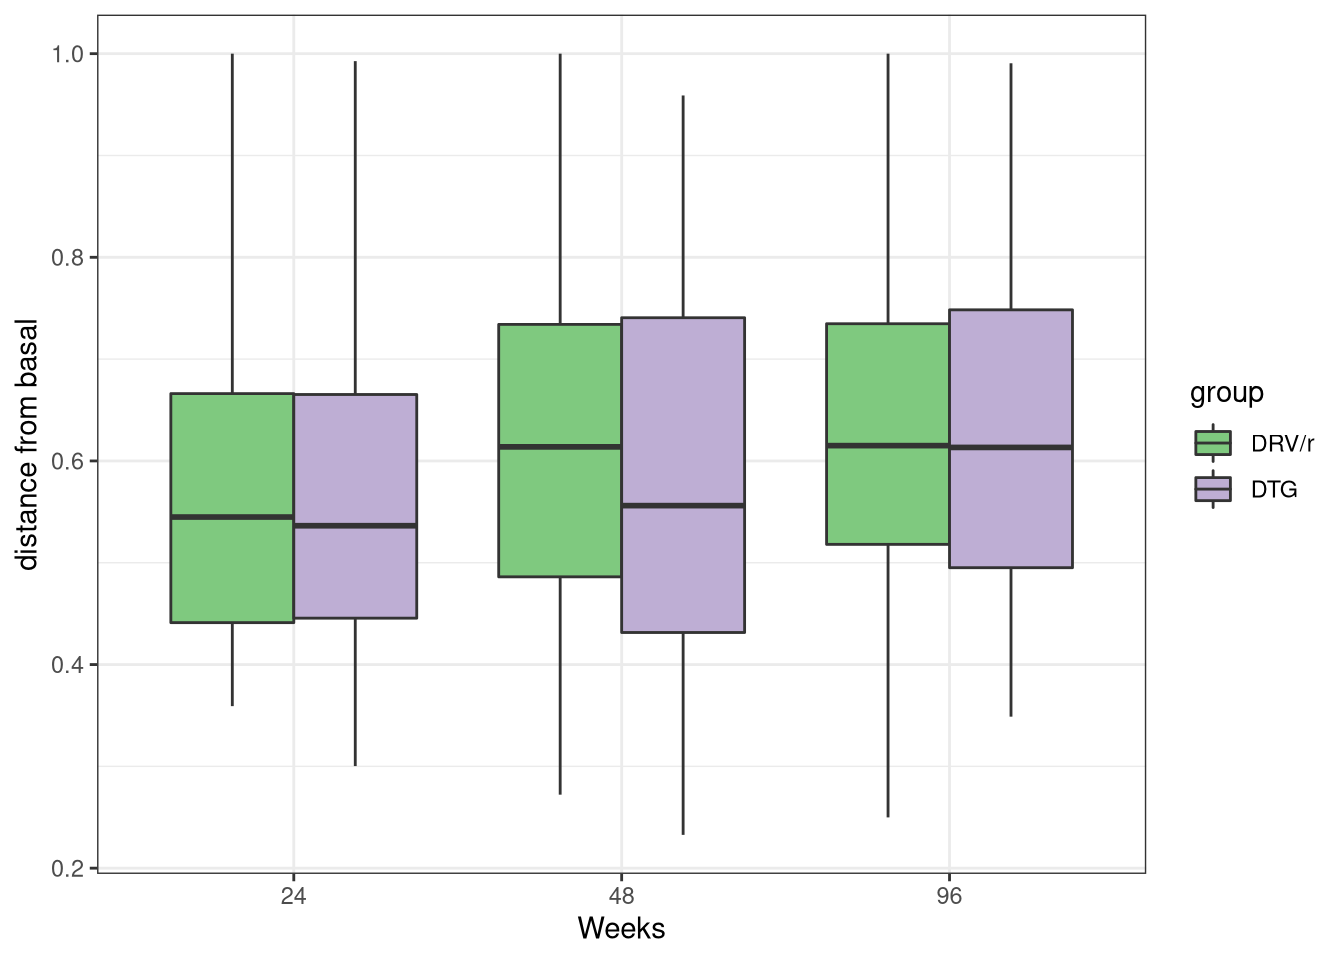
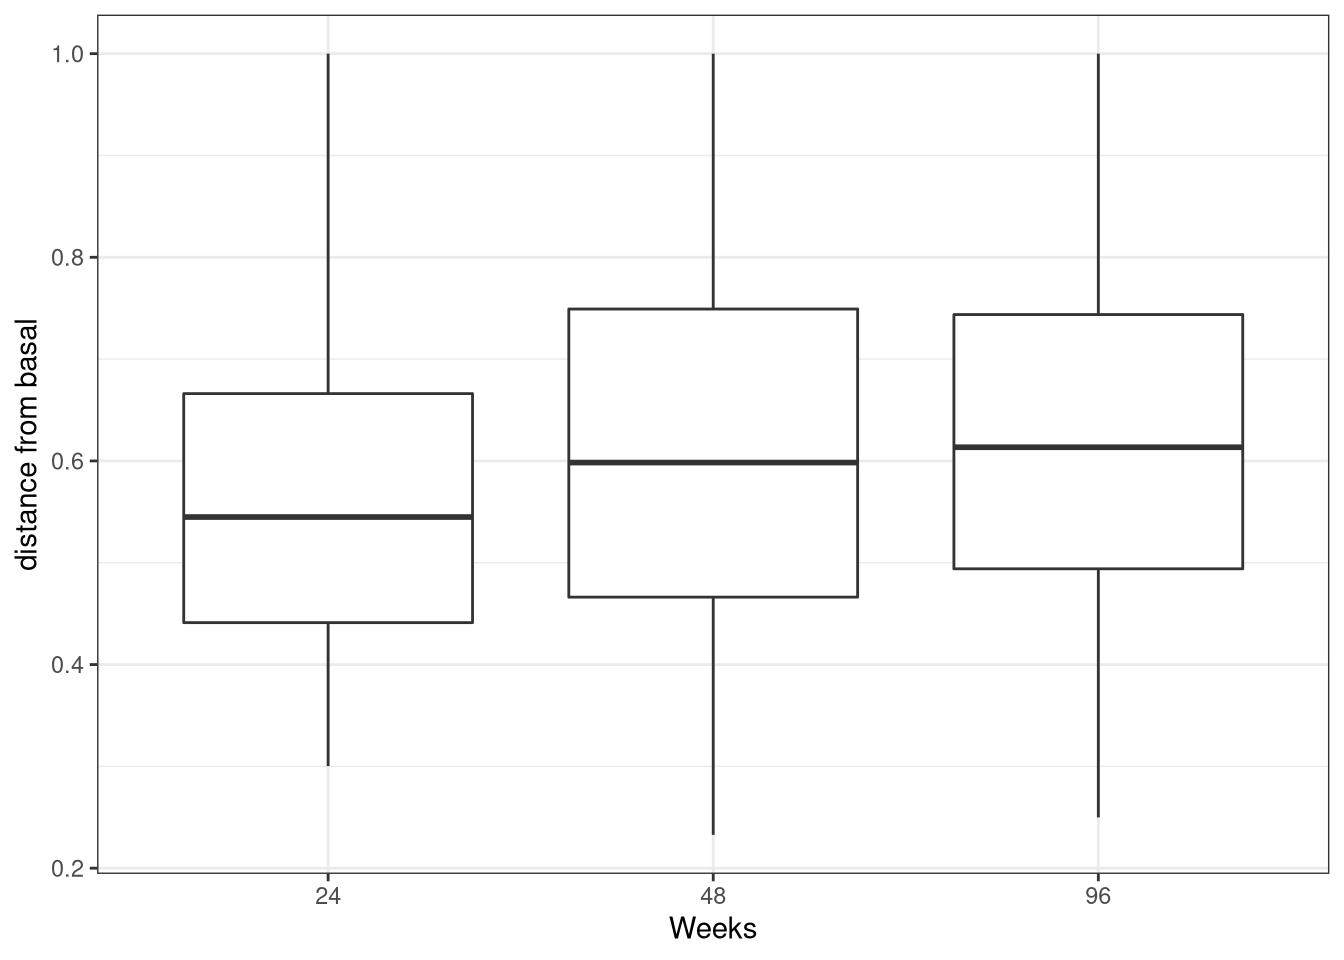
corrected pairwise overall bray_curtis distances per timepoint

diff --git a/docs/320_Beta_Diversity.html b/docs/320_Beta_Diversity.html
@@ -317,7 +317,7 @@ $(document).ready(function () {
 
 <p>
 <button type="button" class="btn btn-default btn-workflowr btn-workflowr-report" data-toggle="collapse" data-target="#workflowr-report">
-<span class="glyphicon glyphicon-list" aria-hidden="true"></span> workflowr <span class="glyphicon glyphicon-ok text-success" aria-hidden="true"></span>
+<span class="glyphicon glyphicon-list" aria-hidden="true"></span> workflowr <span class="glyphicon glyphicon-exclamation-sign text-danger" aria-hidden="true"></span>
 </button>
 </p>
 <div id="workflowr-report" class="collapse">
@@ -326,7 +326,7 @@ $(document).ready(function () {
 <a data-toggle="tab" href="#summary">Summary</a>
 </li>
 <li>
-<a data-toggle="tab" href="#checks"> Checks <span class="glyphicon glyphicon-ok text-success" aria-hidden="true"></span> </a>
+<a data-toggle="tab" href="#checks"> Checks <span class="glyphicon glyphicon-exclamation-sign text-danger" aria-hidden="true"></span> </a>
 </li>
 <li>
 <a data-toggle="tab" href="#versions">Past versions</a>
@@ -335,10 +335,10 @@ $(document).ready(function () {
 <div class="tab-content">
 <div id="summary" class="tab-pane fade in active">
 <p>
-<strong>Last updated:</strong> 2022-12-16
+<strong>Last updated:</strong> 2023-01-09
 </p>
 <p>
-<strong>Checks:</strong> <span class="glyphicon glyphicon-ok text-success" aria-hidden="true"></span> 7 <span class="glyphicon glyphicon-exclamation-sign text-danger" aria-hidden="true"></span> 0
+<strong>Checks:</strong> <span class="glyphicon glyphicon-ok text-success" aria-hidden="true"></span> 6 <span class="glyphicon glyphicon-exclamation-sign text-danger" aria-hidden="true"></span> 1
 </p>
 <p>
 <strong>Knit directory:</strong> <code>advanz4/</code> <span class="glyphicon glyphicon-question-sign" aria-hidden="true" title="This is the local directory in which the code in this file was executed."> </span>
@@ -354,12 +354,12 @@ This reproducible <a href="https://rmarkdown.rstudio.com">R Markdown</a> analysi
 <div class="panel panel-default">
 <div class="panel-heading">
 <p class="panel-title">
-<a data-toggle="collapse" data-parent="#workflowr-checks" href="#strongRMarkdownfilestronguptodate"> <span class="glyphicon glyphicon-ok text-success" aria-hidden="true"></span> <strong>R Markdown file:</strong> up-to-date </a>
+<a data-toggle="collapse" data-parent="#workflowr-checks" href="#strongRMarkdownfilestronguncommittedchanges"> <span class="glyphicon glyphicon-exclamation-sign text-danger" aria-hidden="true"></span> <strong>R Markdown file:</strong> uncommitted changes </a>
 </p>
 </div>
-<div id="strongRMarkdownfilestronguptodate" class="panel-collapse collapse">
+<div id="strongRMarkdownfilestronguncommittedchanges" class="panel-collapse collapse">
 <div class="panel-body">
-<p>Great! Since the R Markdown file has been committed to the Git repository, you know the exact version of the code that produced these results.</p>
+<p>The R Markdown file has unstaged changes. To know which version of the R Markdown file created these results, you’ll want to first commit it to the Git repo. If you’re still working on the analysis, you can ignore this warning. When you’re finished, you can run <code>wflow_publish</code> to commit the R Markdown file and build the HTML.</p>
 </div>
 </div>
 </div>
@@ -426,16 +426,16 @@ This reproducible <a href="https://rmarkdown.rstudio.com">R Markdown</a> analysi
 <div class="panel panel-default">
 <div class="panel-heading">
 <p class="panel-title">
-<a data-toggle="collapse" data-parent="#workflowr-checks" href="#strongRepositoryversionstrongahrefhttpsgithubcomMicrobialGenomicsadvanz4treeb9a23b33647f184fb1b27b48f6ec9b349cbb0ed3targetblankb9a23b3a"> <span class="glyphicon glyphicon-ok text-success" aria-hidden="true"></span> <strong>Repository version:</strong> <a href="https://github.com/MicrobialGenomics/advanz4/tree/b9a23b33647f184fb1b27b48f6ec9b349cbb0ed3" target="_blank">b9a23b3</a> </a>
+<a data-toggle="collapse" data-parent="#workflowr-checks" href="#strongRepositoryversionstrongahrefhttpsgithubcomMicrobialGenomicsadvanz4tree92767277ff8748b517aa47008bdc77234a80509ftargetblank9276727a"> <span class="glyphicon glyphicon-ok text-success" aria-hidden="true"></span> <strong>Repository version:</strong> <a href="https://github.com/MicrobialGenomics/advanz4/tree/92767277ff8748b517aa47008bdc77234a80509f" target="_blank">9276727</a> </a>
 </p>
 </div>
[2 lines of base64/hex data omitted]
 <div class="panel-body">
 <p>
 Great! You are using Git for version control. Tracking code development and connecting the code version to the results is critical for reproducibility.
 </p>
 <p>
-The results in this page were generated with repository version <a href="https://github.com/MicrobialGenomics/advanz4/tree/b9a23b33647f184fb1b27b48f6ec9b349cbb0ed3" target="_blank">b9a23b3</a>. See the <em>Past versions</em> tab to see a history of the changes made to the R Markdown and HTML files.
+The results in this page were generated with repository version <a href="https://github.com/MicrobialGenomics/advanz4/tree/92767277ff8748b517aa47008bdc77234a80509f" target="_blank">9276727</a>. See the <em>Past versions</em> tab to see a history of the changes made to the R Markdown and HTML files.
 </p>
 <p>
 Note that you need to be careful to ensure that all relevant files for the analysis have been committed to Git prior to generating the results (you can use <code>wflow_publish</code> or <code>wflow_git_commit</code>). workflowr only checks the R Markdown file, but you know if there are other scripts or data files that it depends on. Below is the status of the Git repository when the results were generated:
@@ -454,8 +454,7 @@ Ignored files:
     Ignored:    data/signif_paths.rds
 
 Unstaged changes:
-    Modified:   analysis/316_GeneRichness_vs_CMV.Rmd
-    Modified:   output/mre_data/CatalogMapping/IGC/lmm/lmm_time_point_by_group.pdf
+    Modified:   analysis/320_Beta_Diversity.Rmd
 
 </code></pre>
 <p>
@@ -494,6 +493,23 @@ Message
 </tr>
 </thead>
 <tbody>
+<tr>
+<td>
+html
+</td>
+<td>
+<a href="https://rawcdn.githack.com/MicrobialGenomics/advanz4/c1a9770c3ca2f9505837e8532b1cbd108d865a0c/docs/320_Beta_Diversity.html" target="_blank">c1a9770</a>
+</td>
+<td>
+cblazquez
+</td>
+<td>
+2023-01-09
+</td>
+<td>
+updated website and CMV
+</td>
+</tr>
 <tr>
 <td>
 Rmd
@@ -1429,6 +1445,41 @@ cblazquez
 time_point...1 0.000 0.535 DRV/r
 time_point...2 0.001 0.057   DTG</code></pre>
 <p>Sample A0023 apparently jups to distance = 1 from the very start</p>
+</div>
+<div id="pairwise-distances-evolution" class="section level1">
+<h1>Pairwise distances evolution</h1>
+<p>It has been suggested the human microbiome follows the “Anna Karenina” principle which states: <em>“All happy families are alike; each unhappy family is unhappy in its own way.”</em>. In microbiome it translates to healthy patients having somewhat similar microbiomes and when the immune system breaks down, the microbiome escapes a stable configuration and changes without any specific directin. Hence, in this setting, pairwise distances at basal should be higher and decrease as the immune system recomposes and the microbimes move towards a “healthy” composition which is more constant among patients.</p>
+<pre class="r"><code>upper_distmat &lt;- as.matrix(myBrayDistMat)
+upper_distmat[lower.tri(upper_distmat)] &lt;- NA
+sample_vc &lt;- metadata$time_point
+names(sample_vc) &lt;- metadata$SampleID
+
+distance_df &lt;- 
+upper_distmat %&gt;% 
+  as.matrix() %&gt;% 
+  as.data.frame() %&gt;% 
+  # dplyr::filter(!rownames(.)==colnames(.)) %&gt;%
+  rownames_to_column(&quot;Sample1&quot;) %&gt;% 
+  pivot_longer(cols = !Sample1, names_to = &quot;Sample2&quot;, values_to = &quot;dist&quot;) %&gt;% 
+
+    mutate(tp1 = sample_vc[Sample1],
+           tp2 = sample_vc[Sample2]) %&gt;% 
+    dplyr::filter(Sample1 != Sample2,
+                  tp1 == tp2) 
+
+
+
+
+distance_df %&gt;% 
+  # sample_n_by(cmv, size = 406) %&gt;%
+  ggstatsplot::ggbetweenstats(.,
+                              x = &quot;tp1&quot;,
+                              y = &quot;dist&quot;,
+                              type = &quot;np&quot;) +
+  labs(y = &quot;pairwise within-group distances&quot;,
+       x = &quot;week&quot;)</code></pre>
+<p><img src="figure/320_Beta_Diversity.Rmd/pairwise_distances_tp-1.png" width="672" style="display: block; margin: auto;" /></p>
+<p>Looks like the hypotesis holds. Beta diversity drastically decreases from baseline to week 24 (medians 074 vs 0.66) and becomes somewhat consistent afterwards, decreasing very slowly as it only becomes relevant after 96 weeks. This suggests the microbiome makes ost of the recovery quickly after which it stabilizes, changling very slowly, if at all.</p>
 <pre class="r"><code>first_dif &lt;- 
   otu_df %&gt;% 
   vegan::vegdist(x = ., method = &quot;bray&quot;) %&gt;% 
@@ -1493,7 +1544,7 @@ test_long &lt;-
 boxplots &lt;- 
  
   ggplot(first_dif, aes(x = as.factor(time_point), y = distance)) +
-  geom_boxplot(position = &quot;dodge&quot;, aes(fill = group)  )+
+  geom_boxplot(position = &quot;dodge&quot;)+
   scale_color_brewer(palette = &quot;Set1&quot;) +
   scale_fill_brewer(palette = &quot;Set1&quot;) +
   stat_pvalue_manual(test_cat, label = &quot;p.adj.signif&quot;, step.increase = .01, hide.ns = T) +
@@ -1664,59 +1715,67 @@ other attached packages:
  [9] ggrepel_0.9.1      vegan_2.6-2        lattice_0.20-45    permute_0.9-7     
 [13] forcats_0.5.1      stringr_1.4.0      dplyr_1.0.9        purrr_0.3.4       
 [17] readr_2.1.2        tidyr_1.2.0        tibble_3.1.7       ggplot2_3.3.6     
-[21] tidyverse_1.3.1    phyloseq_1.34.0    devtools_2.4.3     usethis_2.1.6     
-[25] workflowr_1.7.0   
+[21] tidyverse_1.3.1    phyloseq_1.34.0   
 
 loaded via a namespace (and not attached):
-  [1] readxl_1.4.0        backports_1.4.1     blme_1.0-5         
-  [4] plyr_1.8.7          igraph_1.3.2        splines_4.0.5      
-  [7] listenv_0.8.0       digest_0.6.29       foreach_1.5.2      
- [10] htmltools_0.5.2     wesanderson_0.3.6   fansi_1.0.3        
- [13] magrittr_2.0.3      memoise_2.0.1       aws.signature_0.6.0
- [16] tzdb_0.3.0          remotes_2.4.2       globals_0.15.0     
- [19] Biostrings_2.58.0   modelr_0.1.8        vroom_1.5.7        
- [22] prettyunits_1.1.1   colorspace_2.0-3    rvest_1.0.2        
- [25] haven_2.5.0         xfun_0.31           callr_3.7.0        
- [28] crayon_1.5.1        jsonlite_1.8.0      lme4_1.1-29        
- [31] survival_3.3-1      iterators_1.0.14    ape_5.6-2          
- [34] glue_1.6.2          polyclip_1.10-0     gtable_0.3.0       
- [37] zlibbioc_1.36.0     XVector_0.30.0      car_3.1-0          
- [40] pkgbuild_1.3.1      Rhdf5lib_1.12.1     BiocGenerics_0.36.1
- [43] abind_1.4-5         scales_1.2.0        mvtnorm_1.1-3      
- [46] DBI_1.1.3           Rcpp_1.0.8.3        xtable_1.8-4       
- [49] merTools_0.5.2      bit_4.0.4           stats4_4.0.5       
- [52] htmlwidgets_1.5.4   httr_1.4.2          ellipsis_0.3.2     
- [55] farver_2.1.0        DataExplorer_0.8.2  pkgconfig_2.0.3    
- [58] sass_0.4.1          dbplyr_2.2.0        here_1.0.1         
- [61] utf8_1.2.2          labeling_0.4.2      tidyselect_1.1.2   
- [64] rlang_1.0.2         reshape2_1.4.4      later_1.3.0        
- [67] cellranger_1.1.0    munsell_0.5.0       tools_4.0.5        
- [70] cachem_1.0.6        cli_3.3.0           generics_0.1.2     
- [73] selbal_0.1.0        ade4_1.7-19         broom_0.8.0        
- [76] aws.s3_0.3.21       evaluate_0.15       biomformat_1.18.0  
- [79] fastmap_1.1.0       arm_1.12-2          yaml_2.3.5         
- [82] bit64_4.0.5         processx_3.6.1      knitr_1.39         
- [85] fs_1.5.2            future_1.26.1       whisker_0.4        
- [88] mime_0.12           xml2_1.3.2          brio_1.1.3         
- [91] compiler_4.0.5      rstudioapi_0.13     curl_4.3.2         
- [94] ggsignif_0.6.3.9000 reprex_2.0.1        tweenr_1.0.2       
- [97] bslib_0.3.1         stringi_1.7.6       highr_0.9          
-[100] ps_1.7.1            desc_1.4.1          logger_0.2.2       
-[103] Matrix_1.4-1        nloptr_2.0.3        multtest_2.46.0    
-[106] vctrs_0.4.1         pillar_1.7.0        lifecycle_1.0.1    
-[109] networkD3_0.4       rhdf5filters_1.2.1  furrr_0.3.0        
-[112] jquerylib_0.1.4     data.table_1.14.2   patchwork_1.1.1    
-[115] httpuv_1.6.5        R6_2.5.1            promises_1.2.0.1   
-[118] IRanges_2.24.1      parallelly_1.32.0   sessioninfo_1.2.2  
-[121] codetools_0.2-18    boot_1.3-28         MASS_7.3-57        
-[124] assertthat_0.2.1    pkgload_1.2.4       rhdf5_2.34.0       
-[127] rprojroot_2.0.3     withr_2.5.0         S4Vectors_0.28.1   
-[130] broom.mixed_0.2.9.4 mgcv_1.8-40         parallel_4.0.5     
-[133] hms_1.1.1           grid_4.0.5          coda_0.19-4        
-[136] minqa_1.2.4         rmarkdown_2.14      carData_3.0-5      
-[139] logging_0.10-108    git2r_0.30.1        ggforce_0.3.3      
-[142] getPass_0.2-2       base64enc_0.1-3     Biobase_2.50.0     
-[145] shiny_1.7.1         lubridate_1.8.0    </code></pre>
+  [1] utf8_1.2.2             tidyselect_1.1.2       lme4_1.1-29           
+  [4] htmlwidgets_1.5.4      gmp_0.6-5              grid_4.0.5            
+  [7] devtools_2.4.3         aws.signature_0.6.0    munsell_0.5.0         
+ [10] effectsize_0.7.0       codetools_0.2-18       future_1.26.1         
+ [13] withr_2.5.0            colorspace_2.0-3       Biobase_2.50.0        
+ [16] logger_0.2.2           highr_0.9              knitr_1.39            
+ [19] rstudioapi_0.13        stats4_4.0.5           ggsignif_0.6.3.9000   
+ [22] listenv_0.8.0          emmeans_1.7.4-1        labeling_0.4.2        
+ [25] git2r_0.30.1           polyclip_1.10-0        datawizard_0.4.1      
+ [28] bit64_4.0.5            farver_2.1.0           rhdf5_2.34.0          
+ [31] rprojroot_2.0.3        TH.data_1.1-1          coda_0.19-4           
+ [34] parallelly_1.32.0      vctrs_0.4.1            generics_0.1.2        
+ [37] xfun_0.31              BWStest_0.2.2          R6_2.5.1              
+ [40] arm_1.12-2             rhdf5filters_1.2.1     cachem_1.0.6          
+ [43] assertthat_0.2.1       promises_1.2.0.1       networkD3_0.4         
+ [46] scales_1.2.0           vroom_1.5.7            multcomp_1.4-19       
+ [49] merTools_0.5.2         gtable_0.3.0           multcompView_0.1-8    
+ [52] globals_0.15.0         processx_3.6.1         sandwich_3.0-2        
+ [55] workflowr_1.7.0        rlang_1.0.2            zeallot_0.1.0         
+ [58] PMCMRplus_1.9.4        splines_4.0.5          prismatic_1.1.0       
+ [61] broom_0.8.0            yaml_2.3.5             reshape2_1.4.4        
+ [64] abind_1.4-5            modelr_0.1.8           backports_1.4.1       
+ [67] httpuv_1.6.5           tools_4.0.5            usethis_2.1.6         
+ [70] logging_0.10-108       ellipsis_0.3.2         jquerylib_0.1.4       
+ [73] biomformat_1.18.0      selbal_0.1.0           BiocGenerics_0.36.1   
+ [76] sessioninfo_1.2.2      Rcpp_1.0.8.3           plyr_1.8.7            
+ [79] base64enc_0.1-3        zlibbioc_1.36.0        ps_1.7.1              
+ [82] prettyunits_1.1.1      correlation_0.8.1      zoo_1.8-10            
+ [85] S4Vectors_0.28.1       haven_2.5.0            fs_1.5.2              
+ [88] here_1.0.1             furrr_0.3.0            DataExplorer_0.8.2    
+ [91] magrittr_2.0.3         data.table_1.14.2      reprex_2.0.1          
+ [94] mvtnorm_1.1-3          whisker_0.4            pkgload_1.2.4         
+ [97] hms_1.1.1              patchwork_1.1.1        mime_0.12             
+[100] evaluate_0.15          xtable_1.8-4           broom.mixed_0.2.9.4   
+[103] readxl_1.4.0           IRanges_2.24.1         compiler_4.0.5        
+[106] ggstatsplot_0.9.3      crayon_1.5.1           minqa_1.2.4           
+[109] htmltools_0.5.2        mgcv_1.8-40            later_1.3.0           
+[112] tzdb_0.3.0             kSamples_1.2-9         SuppDists_1.1-9.7     
+[115] lubridate_1.8.0        aws.s3_0.3.21          DBI_1.1.3             
+[118] tweenr_1.0.2           dbplyr_2.2.0           MASS_7.3-57           
+[121] boot_1.3-28            Matrix_1.4-1           ade4_1.7-19           
+[124] car_3.1-0              wesanderson_0.3.6      brio_1.1.3            
+[127] cli_3.3.0              insight_0.17.1         parallel_4.0.5        
+[130] igraph_1.3.2           pkgconfig_2.0.3        statsExpressions_1.3.2
+[133] paletteer_1.4.0        xml2_1.3.2             foreach_1.5.2         
+[136] bslib_0.3.1            blme_1.0-5             multtest_2.46.0       
+[139] XVector_0.30.0         estimability_1.3       rvest_1.0.2           
+[142] callr_3.7.0            digest_0.6.29          parameters_0.18.1     
+[145] Biostrings_2.58.0      rmarkdown_2.14         cellranger_1.1.0      
+[148] curl_4.3.2             shiny_1.7.1            nloptr_2.0.3          
+[151] lifecycle_1.0.1        jsonlite_1.8.0         Rhdf5lib_1.12.1       
+[154] carData_3.0-5          desc_1.4.1             fansi_1.0.3           
+[157] pillar_1.7.0           fastmap_1.1.0          httr_1.4.2            
+[160] pkgbuild_1.3.1         survival_3.3-1         glue_1.6.2            
+[163] remotes_2.4.2          bayestestR_0.12.1      iterators_1.0.14      
+[166] bit_4.0.4              performance_0.9.1      ggforce_0.3.3         
+[169] stringi_1.7.6          sass_0.4.1             rematch2_2.1.2        
+[172] memoise_2.0.1          Rmpfr_0.8-9            ape_5.6-2             </code></pre>
 </div>
 </div>
 
